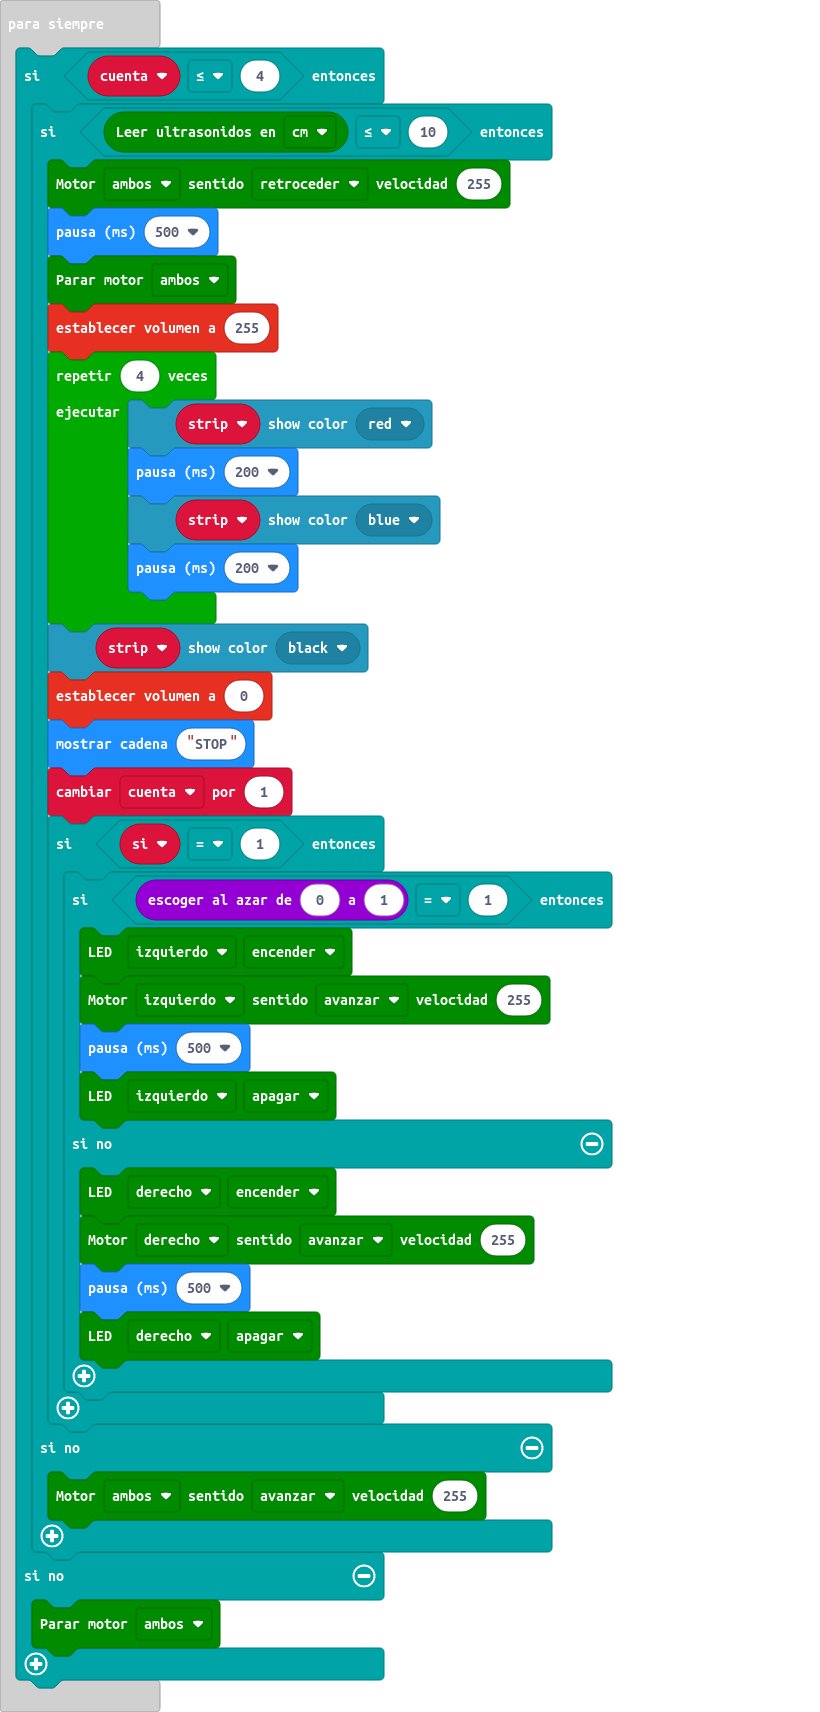
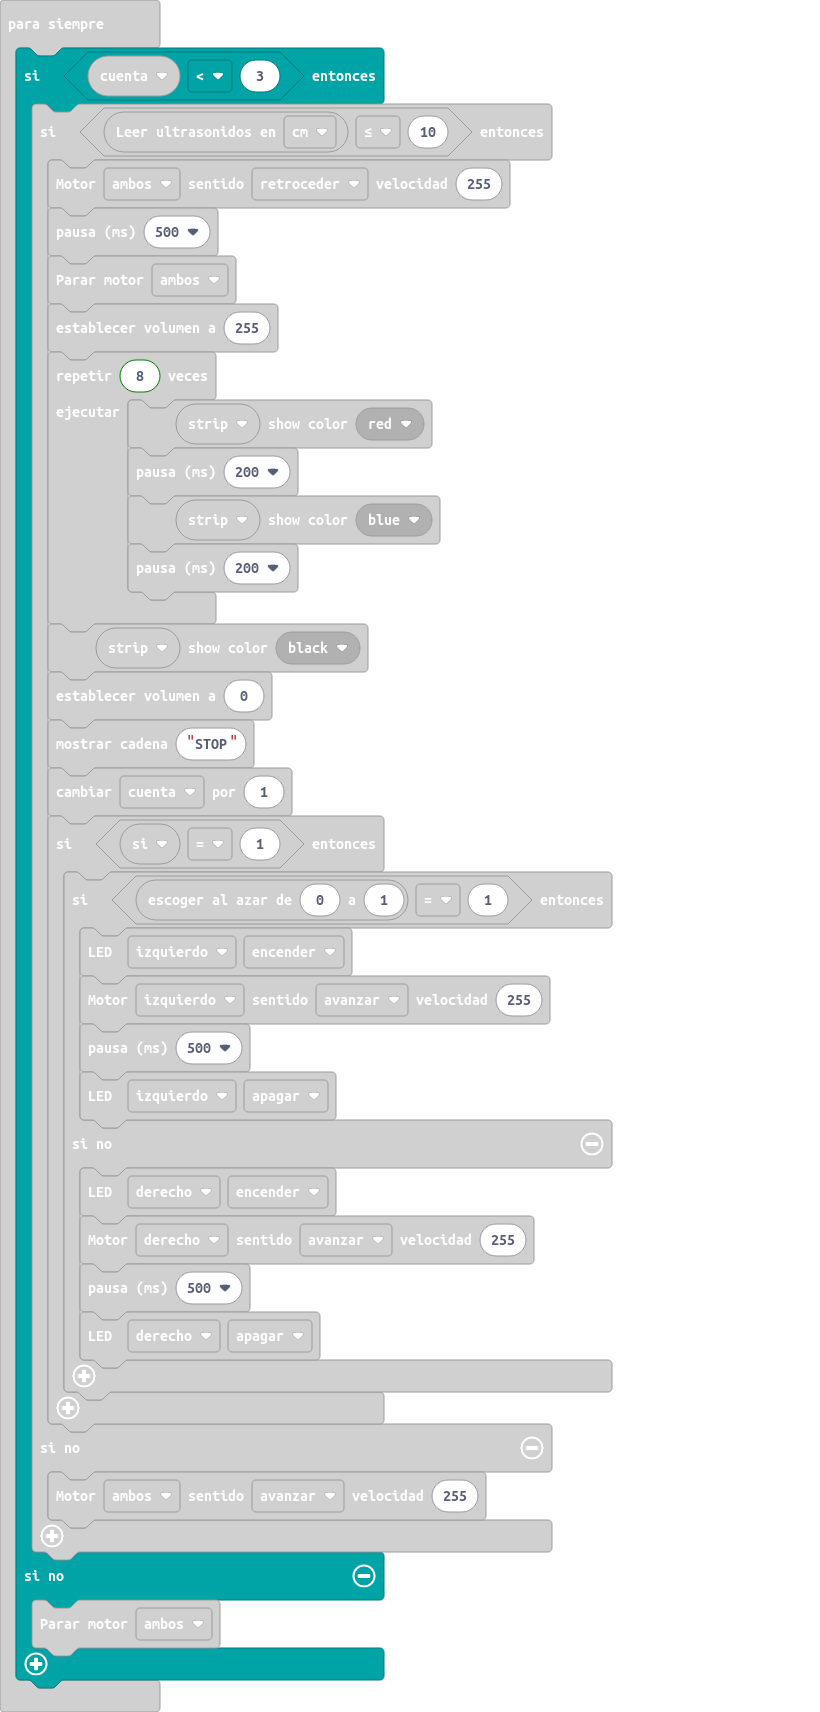
Actualizar main.blocks, main.ts

diff --git a/main.ts b/main.ts
@@ -12,13 +12,13 @@ basic.forever(function () {
     music.playMelody("C5 C C5 C C5 C C5 C ", 120)
 })
 basic.forever(function () {
-    if (cuenta <= 4) {
+    if (cuenta < 3) {
         if (maqueen.Ultrasonic(PingUnit.Centimeters) <= 10) {
             maqueen.motorRun(maqueen.Motors.All, maqueen.Dir.CCW, 255)
             basic.pause(500)
             maqueen.motorStop(maqueen.Motors.All)
             music.setVolume(255)
-            for (let index = 0; index < 4; index++) {
+            for (let index = 0; index < 8; index++) {
                 strip.showColor(neopixel.colors(NeoPixelColors.Red))
                 basic.pause(200)
                 strip.showColor(neopixel.colors(NeoPixelColors.Blue))
